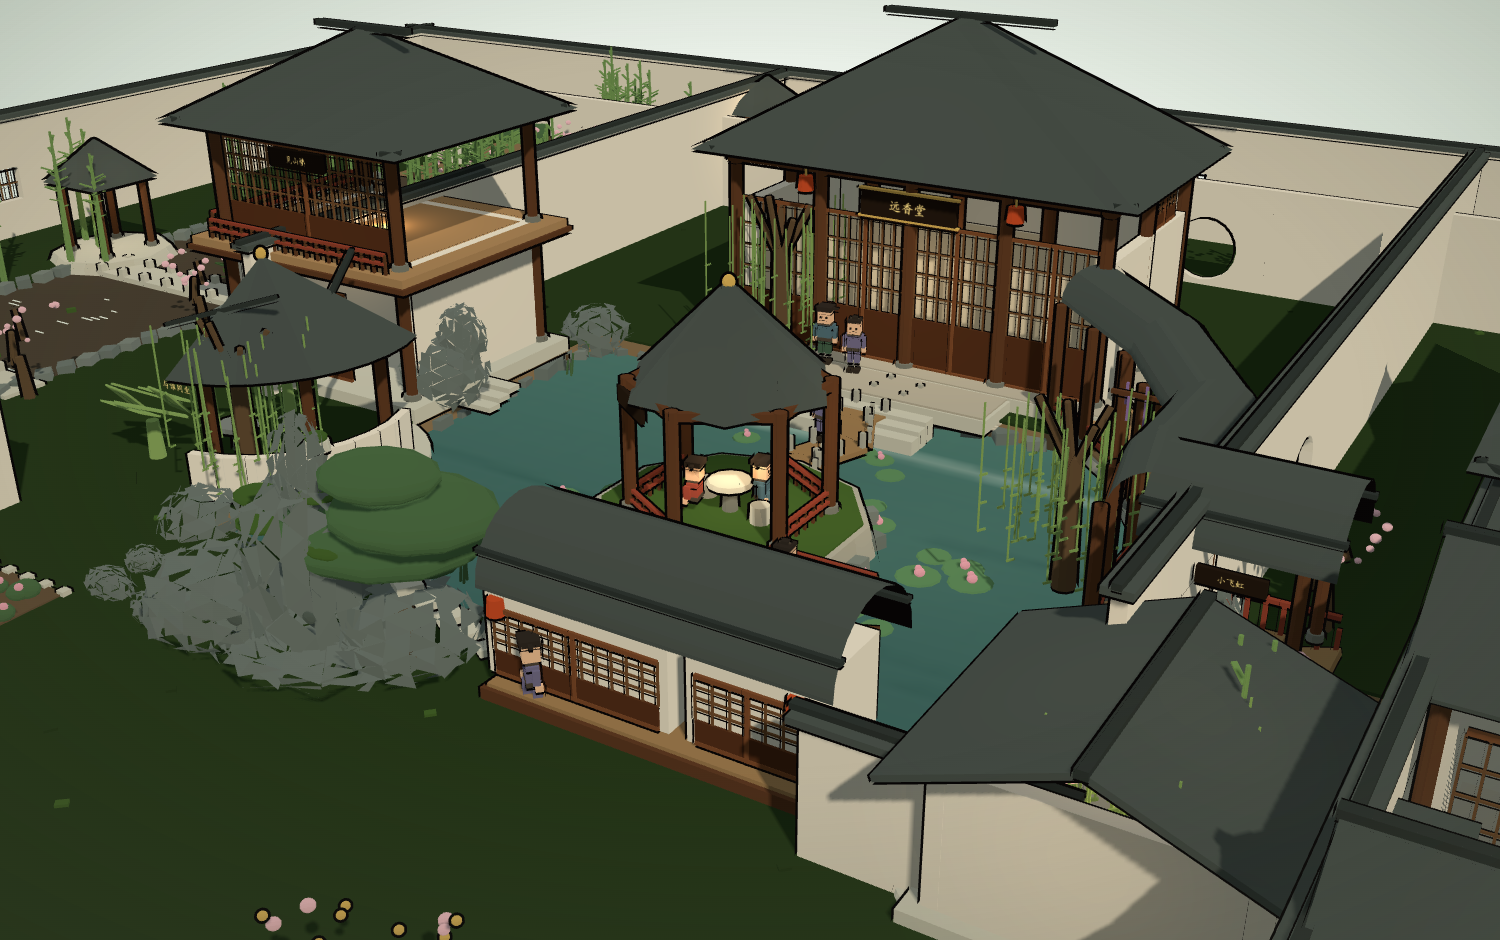
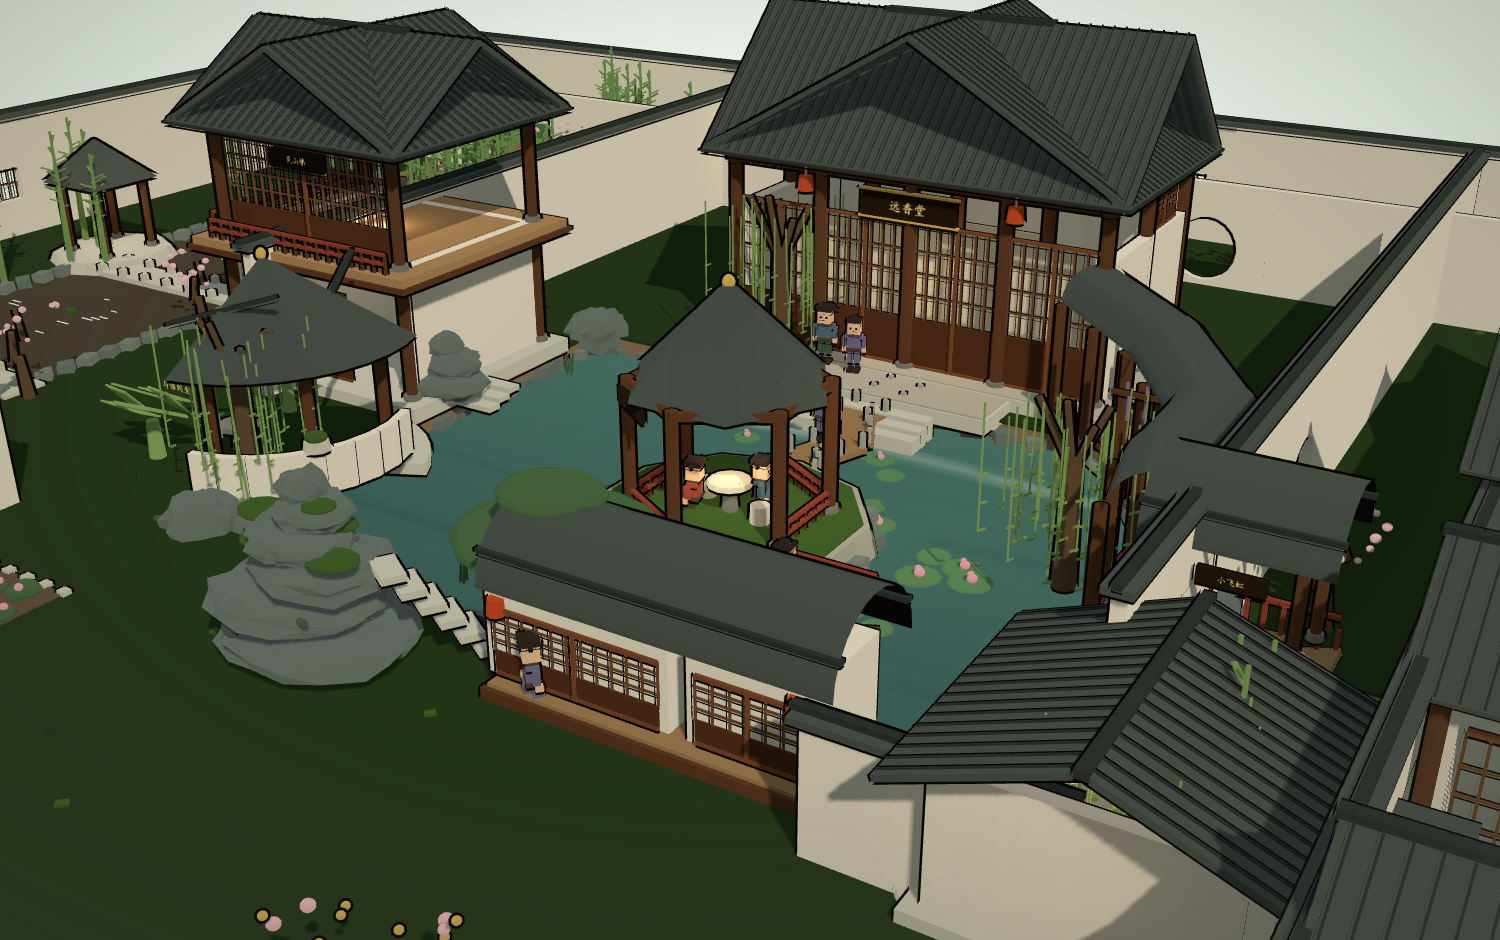
docs(garden): 更新在线演示与四张截图（屋顶薄板+瓦垄、扁石叠峰）

diff --git a/docs/garden.html b/docs/garden.html
@@ -17249,21 +17249,40 @@ function gdWall(b, key, axis, at, a0, a1, y0, y1, holes, th) {
   return b.add(key, g);
 }
 
-/* 四坡顶（庑殿/歇山近似）：四棱锥 + 正脊 + 檐口。比自定义几何稳，法线不出错 */
+/* 四坡顶：四块薄坡板 + 瓦垄细线。原来是实心四棱锥，檐口厚得像块糕，压得天井透不过气 */
 function gdHipRoof(b, key, keyD, cx, cz, w, d, ye, yr) {
-  const g = new T.CylinderGeometry(0.03, 1, 1, 4, 1);
-  g.rotateY(Math.PI / 4);
-  g.scale(w * 0.74, yr - ye, d * 0.74);
-  g.translate(cx, (ye + yr) / 2, cz);
-  b.add(key, g);
+  const hw = w / 2, hd = d / 2, rise = yr - ye;
+  const slopeD = Math.hypot(hd, rise), angD = Math.atan2(rise, hd);
+  const slopeW = Math.hypot(hw, rise), angW = Math.atan2(rise, hw);
+  /* 前后两坡（沿 x 长） */
+  [-1, 1].forEach(function (s) {
+    b.box(key, w, 0.13, slopeD, cx, ye + rise / 2, cz + s * hd / 2, s * angD, 0, 0);
+    /* 瓦垄：沿坡向的细线，间距 0.34 */
+    const n = Math.max(8, Math.round(w / 0.34));
+    for (let i = 0; i < n; i++) {
+      const x = -w / 2 + (i + 0.5) * w / n;
+      b.box(keyD, 0.035, 0.05, slopeD, cx + x, ye + rise / 2 + 0.07, cz + s * hd / 2, s * angD, 0, 0);
+    }
+  });
+  /* 左右两坡（沿 z 长） */
+  [-1, 1].forEach(function (s) {
+    b.box(key, slopeW, 0.13, d, cx + s * hw / 2, ye + rise / 2, cz, 0, 0, -s * angW);
+    const n = Math.max(6, Math.round(d / 0.34));
+    for (let i = 0; i < n; i++) {
+      const z = -d / 2 + (i + 0.5) * d / n;
+      b.box(keyD, slopeW, 0.05, 0.035, cx + s * hw / 2, ye + rise / 2 + 0.07, cz + z, 0, 0, -s * angW);
+    }
+  });
+  /* 正脊 */
   const alongX = w >= d;
   const len = (alongX ? w : d) * 0.40;
   if (alongX) b.box(keyD, len, 0.17, 0.22, cx, yr + 0.06, cz);
   else b.box(keyD, 0.22, 0.17, len, cx, yr + 0.06, cz);
-  /* 四角起翘：四个檐角各压一小段斜瓦，远看才有江南屋角的味道 */
-  [[-1, -1], [1, -1], [1, 1], [-1, 1]].forEach(function (s) {
-    b.box(keyD, 0.55, 0.10, 0.16, cx + s[0] * (w / 2 - 0.18), ye + 0.10, cz + s[1] * (d / 2 - 0.10), 0, s[0] * s[1] * 0.62, 0);
-  });
+  /* 檐口一圈薄压边：代替原来那四根「刀片状」不起翘 */
+  b.box(keyD, w + 0.12, 0.07, 0.16, cx, ye - 0.02, cz - hd);
+  b.box(keyD, w + 0.12, 0.07, 0.16, cx, ye - 0.02, cz + hd);
+  b.box(keyD, 0.16, 0.07, d + 0.12, cx - hw, ye - 0.02, cz);
+  b.box(keyD, 0.16, 0.07, d + 0.12, cx + hw, ye - 0.02, cz);
 }
 
 /* 双坡顶（硬山）：两块斜板 + 正脊，用在门厅、小院 */
@@ -17275,11 +17294,21 @@ function gdGableRoof(b, key, keyD, cx, cz, w, d, ye, yr, axis) {
   if (axis === 'z') {
     [-1, 1].forEach(function (s) {
       b.box(key, w + 0.5, 0.12, slope + 0.15, cx, (ye + yr) / 2, cz + s * span / 4, s * ang, 0, 0);
+      const n = Math.max(6, Math.round((w + 0.5) / 0.34));
+      for (let i = 0; i < n; i++) {
+        b.box(keyD, 0.035, 0.05, slope + 0.15, cx - (w + 0.5) / 2 + (i + 0.5) * (w + 0.5) / n,
+          (ye + yr) / 2 + 0.07, cz + s * span / 4, s * ang, 0, 0);
+      }
     });
     b.box(keyD, w + 0.6, 0.16, 0.22, cx, yr + 0.05, cz);
   } else {
     [-1, 1].forEach(function (s) {
       b.box(key, slope + 0.15, 0.12, d + 0.5, cx + s * span / 4, (ye + yr) / 2, cz, 0, 0, -s * ang);
+      const n = Math.max(6, Math.round((d + 0.5) / 0.34));
+      for (let i = 0; i < n; i++) {
+        b.box(keyD, slope + 0.15, 0.05, 0.035, cx + s * span / 4,
+          (ye + yr) / 2 + 0.07, cz - (d + 0.5) / 2 + (i + 0.5) * (d + 0.5) / n, 0, 0, -s * ang);
+      }
     });
     b.box(keyD, 0.22, 0.16, d + 0.6, cx, yr + 0.05, cz);
   }
@@ -17882,11 +17911,18 @@ function gdGateHall(b) {
 
 /* ---------------- 假山：太湖石（顶点扰动的二十面体） ---------------- */
 function gdRock(b, x, y, z, sx, sy, sz, seed) {
+  /* 细分 2 + 位置相关的连续噪声：细分 3 会变「灰棉花糖」，
+     低模的多面体反而更像石头；噪声按位置连续，才不会撒噪点 */
   const g = new T.IcosahedronGeometry(1, 2);
   const p = g.attributes.position;
   for (let i = 0; i < p.count; i++) {
-    const k = 0.86 + gdR(seed * 7.1 + i * 3.3) * 0.26;
-    p.setXYZ(i, p.getX(i) * k, p.getY(i) * k, p.getZ(i) * k);
+    const vx = p.getX(i), vy = p.getY(i), vz = p.getZ(i);
+    const ang = Math.atan2(vz, vx);
+    const k = 0.90
+      + 0.10 * Math.sin(vx * 6.1 + vy * 4.7 + vz * 6.9 + seed)
+      + 0.06 * Math.sin(vx * 12.7 - vz * 10.9 + seed * 2.1)
+      + 0.035 * Math.cos(ang * 5.0 + seed) * (0.35 + 0.65 * Math.abs(vy));
+    p.setXYZ(i, vx * k, vy * k, vz * k);
   }
   g.computeVertexNormals();
   g.scale(sx, sy, sz);
@@ -17925,29 +17961,40 @@ function gdCave(b, x, y, z, r) {
   b.sph('gdRockD', r * 0.62, x, y, z, 1, 0.80, 0.45);
 }
 function gdHills(b) {
-  /* 四块整石：少而大。多点叠加会露内壁，整块变形又会拉成石柱，四块是最稳的折中 */
+  /* 主峰用「扁平叠石」：六块横向扁石层层收进，
+     这是传统园林叠假山的做法，比一个大球更像太湖石 */
   const HX = -4.5, cz = 12.6;
-  gdRock(b, HX + 2.4, GD_GY + 0.34, cz, 2.30, 0.52, 2.00, 5);
-  gdRock(b, HX + 2.4, GD_GY + 1.62, cz, 1.55, 2.55, 1.35, 1);
-  gdRock(b, HX + 0.3, GD_GY + 0.90, cz + 0.7, 1.60, 1.05, 1.45, 2);
-  gdRock(b, HX + 4.4, GD_GY + 0.85, cz - 0.5, 1.50, 1.00, 1.40, 3);
-  gdRock(b, HX + 2.5, GD_GY + 4.05, cz + 0.1, 0.58, 1.28, 0.52, 4);
-  /* 洞壑：深色凹陷贴在石面上，读出「透」 */
-  gdCave(b, HX + 1.5, GD_GY + 1.10, cz + 1.35, 0.38);
-  gdCave(b, HX + 3.4, GD_GY + 1.55, cz + 1.10, 0.26);
+  [
+    [HX + 2.4, 0.55, cz + 0.05, 2.45, 0.55, 2.05, 1],
+    [HX + 2.1, 1.28, cz + 0.18, 2.05, 0.50, 1.72, 2],
+    [HX + 2.7, 1.98, cz - 0.10, 1.72, 0.48, 1.42, 3],
+    [HX + 2.3, 2.60, cz + 0.12, 1.32, 0.44, 1.12, 4],
+    [HX + 2.6, 3.18, cz - 0.05, 0.92, 0.40, 0.80, 5],
+    [HX + 2.4, 3.68, cz + 0.02, 0.56, 0.38, 0.50, 6]
+  ].forEach(function (q) {
+    gdRock(b, q[0], GD_GY + q[1], q[2], q[3], q[4], q[5], q[6]);
+  });
+  /* 洞壑：扁石之间留缝，缝口压深色 */
+  gdCave(b, HX + 1.6, GD_GY + 0.95, cz + 1.55, 0.36);
+  gdCave(b, HX + 3.3, GD_GY + 1.45, cz + 1.20, 0.24);
+  /* 苔藓 */
   for (let i = 0; i < 10; i++) {
     const a = gdR(i * 3.1) * Math.PI * 2;
-    const r = 0.5 + gdR(i * 5.7) * 1.4;
+    const r = 0.5 + gdR(i * 5.7) * 1.3;
     b.sph('gdGrassL', 0.30 + gdR(i * 7.3) * 0.22,
-      HX + 2.4 + Math.cos(a) * r, GD_GY + 2.1 + gdR(i * 9.1) * 1.6,
-      cz + Math.sin(a) * r * 0.7, 1.3, 0.30, 1.1);
+      HX + 2.4 + Math.cos(a) * r, GD_GY + 1.7 + gdR(i * 9.1) * 1.8,
+      cz + Math.sin(a) * r * 0.7, 1.3, 0.28, 1.1);
   }
+  /* 上山步道 */
   for (let i = 0; i < 6; i++) {
     b.box('gdStoneL', 0.95, 0.16, 0.52,
-      0.9 - i * 0.26, GD_GY + 0.28 + i * 0.40, 11.0 + i * 0.26, 0, -0.55, 0);
+      0.9 - i * 0.24, GD_GY + 0.28 + i * 0.38, 11.0 + i * 0.26, 0, -0.55, 0);
   }
-  gdRock(b, -9.0, GD_GY + 0.85, 1.0, 1.30, 1.05, 1.10, 11);
-  gdRock(b, -8.5, GD_GY + 1.85, 0.7, 0.70, 0.95, 0.62, 12);
+  /* 次峰：三块扁石 */
+  gdRock(b, -9.0, GD_GY + 0.55, 1.0, 1.45, 0.55, 1.20, 11);
+  gdRock(b, -8.8, GD_GY + 1.15, 0.9, 1.00, 0.45, 0.85, 12);
+  gdRock(b, -8.9, GD_GY + 1.68, 1.0, 0.62, 0.40, 0.55, 13);
+  /* 池边立峰 */
   gdRock(b, -4.8, GD_GY + 1.30, 10.0, 0.60, 1.30, 0.55, 21);
   gdRock(b, 13.2, GD_GY + 1.00, 11.2, 0.52, 1.00, 0.48, 22);
   gdRock(b, -4.3, GD_GY + 1.05, -6.4, 0.48, 1.10, 0.46, 23);
@@ -17991,7 +18038,8 @@ function gdHall(b, cx, cz, w, d, h) {
   b.box('gdWall', 0.28, h, d, cx - w / 2 + 0.14, FY + h / 2, cz);
   b.box('gdWall', 0.28, h, d, cx + w / 2 - 0.14, FY + h / 2, cz);
   gdScreen(b, cx, FY, cz + d / 2 - 0.05, w - 0.8, h - 0.6, 0);
-  if (w >= 7.0) gdHipRoof(b, 'gdTile', 'gdRidge', cx, cz, w + 0.9, d + 0.9, FY + h, FY + h + 2.1);
+  /* 正厅靠「更高的脊 + 更宽的檐」突出主次；四坡薄板在角部会叠出双坡 */
+  if (w >= 7.0) gdGableRoof(b, 'gdTile', 'gdRidge', cx, cz, w + 1.0, d + 1.0, FY + h, FY + h + 2.2, 'z');
   else gdGableRoof(b, 'gdTile', 'gdRidge', cx, cz, w + 0.7, d + 0.7, FY + h, FY + h + 1.5, 'z');
   b.box('gdSignBox', 1.6, 0.42, 0.10, cx, FY + h - 0.45, cz + d / 2 + 0.12);
   b.box('gdWoodD', Math.min(2.6, w - 1.2), 0.12, 0.9, cx, FY + 0.76, cz - d / 2 + 0.9);
@@ -18367,8 +18415,8 @@ function gdPlants(b) {
   gdPlum(b, 15.2, 1.2, 0.95);
   gdPlum(b, 15.4, 7.4, 0.88);
   gdPlum(b, 13.2, 12.6, 0.80);
-  /* 假山顶一株黑松 */
-  gdPine(b, -0.4, 11.9, 1.05);
+  /* 黑松种在假山东侧地面，别插进山体 */
+  gdPine(b, 2.4, 10.2, 0.95);
   /* 荷花：岛周与池北，成簇不成排 */
   for (let i = 0; i < 26; i++) {
     const a = gdR(i * 2.9) * Math.PI * 2;
@@ -18398,10 +18446,10 @@ function gdPlants(b) {
     b.box(i % 3 ? 'gdGrassL' : 'gdGrass', 0.16 + gdR(i * 5.1) * 0.12, 0.14, 0.16,
       x, GD_GY + 0.07, z, 0, gdR(i * 7.3) * 1.2, 0);
   }
-  /* 南岸与东院的点景石 */
-  for (let i = 0; i < 8; i++) {
-    gdRock(b, -8.0 + gdR(i * 3.1) * 4.0, GD_GY + 0.24, 12.2 + gdR(i * 5.7) * 1.8,
-      0.42 + gdR(i * 7.3) * 0.30, 0.30 + gdR(i * 9.1) * 0.24, 0.40, 30 + i);
+  /* 池西南岸的点景石：贴着岸线放，不要散在假山脚下 */
+  for (let i = 0; i < 4; i++) {
+    gdRock(b, -7.2 - i * 0.9, GD_GY + 0.20, 9.6 - i * 0.7,
+      0.38 + gdR(i * 7.3) * 0.22, 0.26 + gdR(i * 9.1) * 0.18, 0.34, 30 + i);
   }
   gdRock(b, 13.6, GD_GY + 0.80, 3.4, 0.55, 1.10, 0.52, 44);
   gdRock(b, 15.4, GD_GY + 0.55, 10.4, 0.42, 0.75, 0.40, 45);
